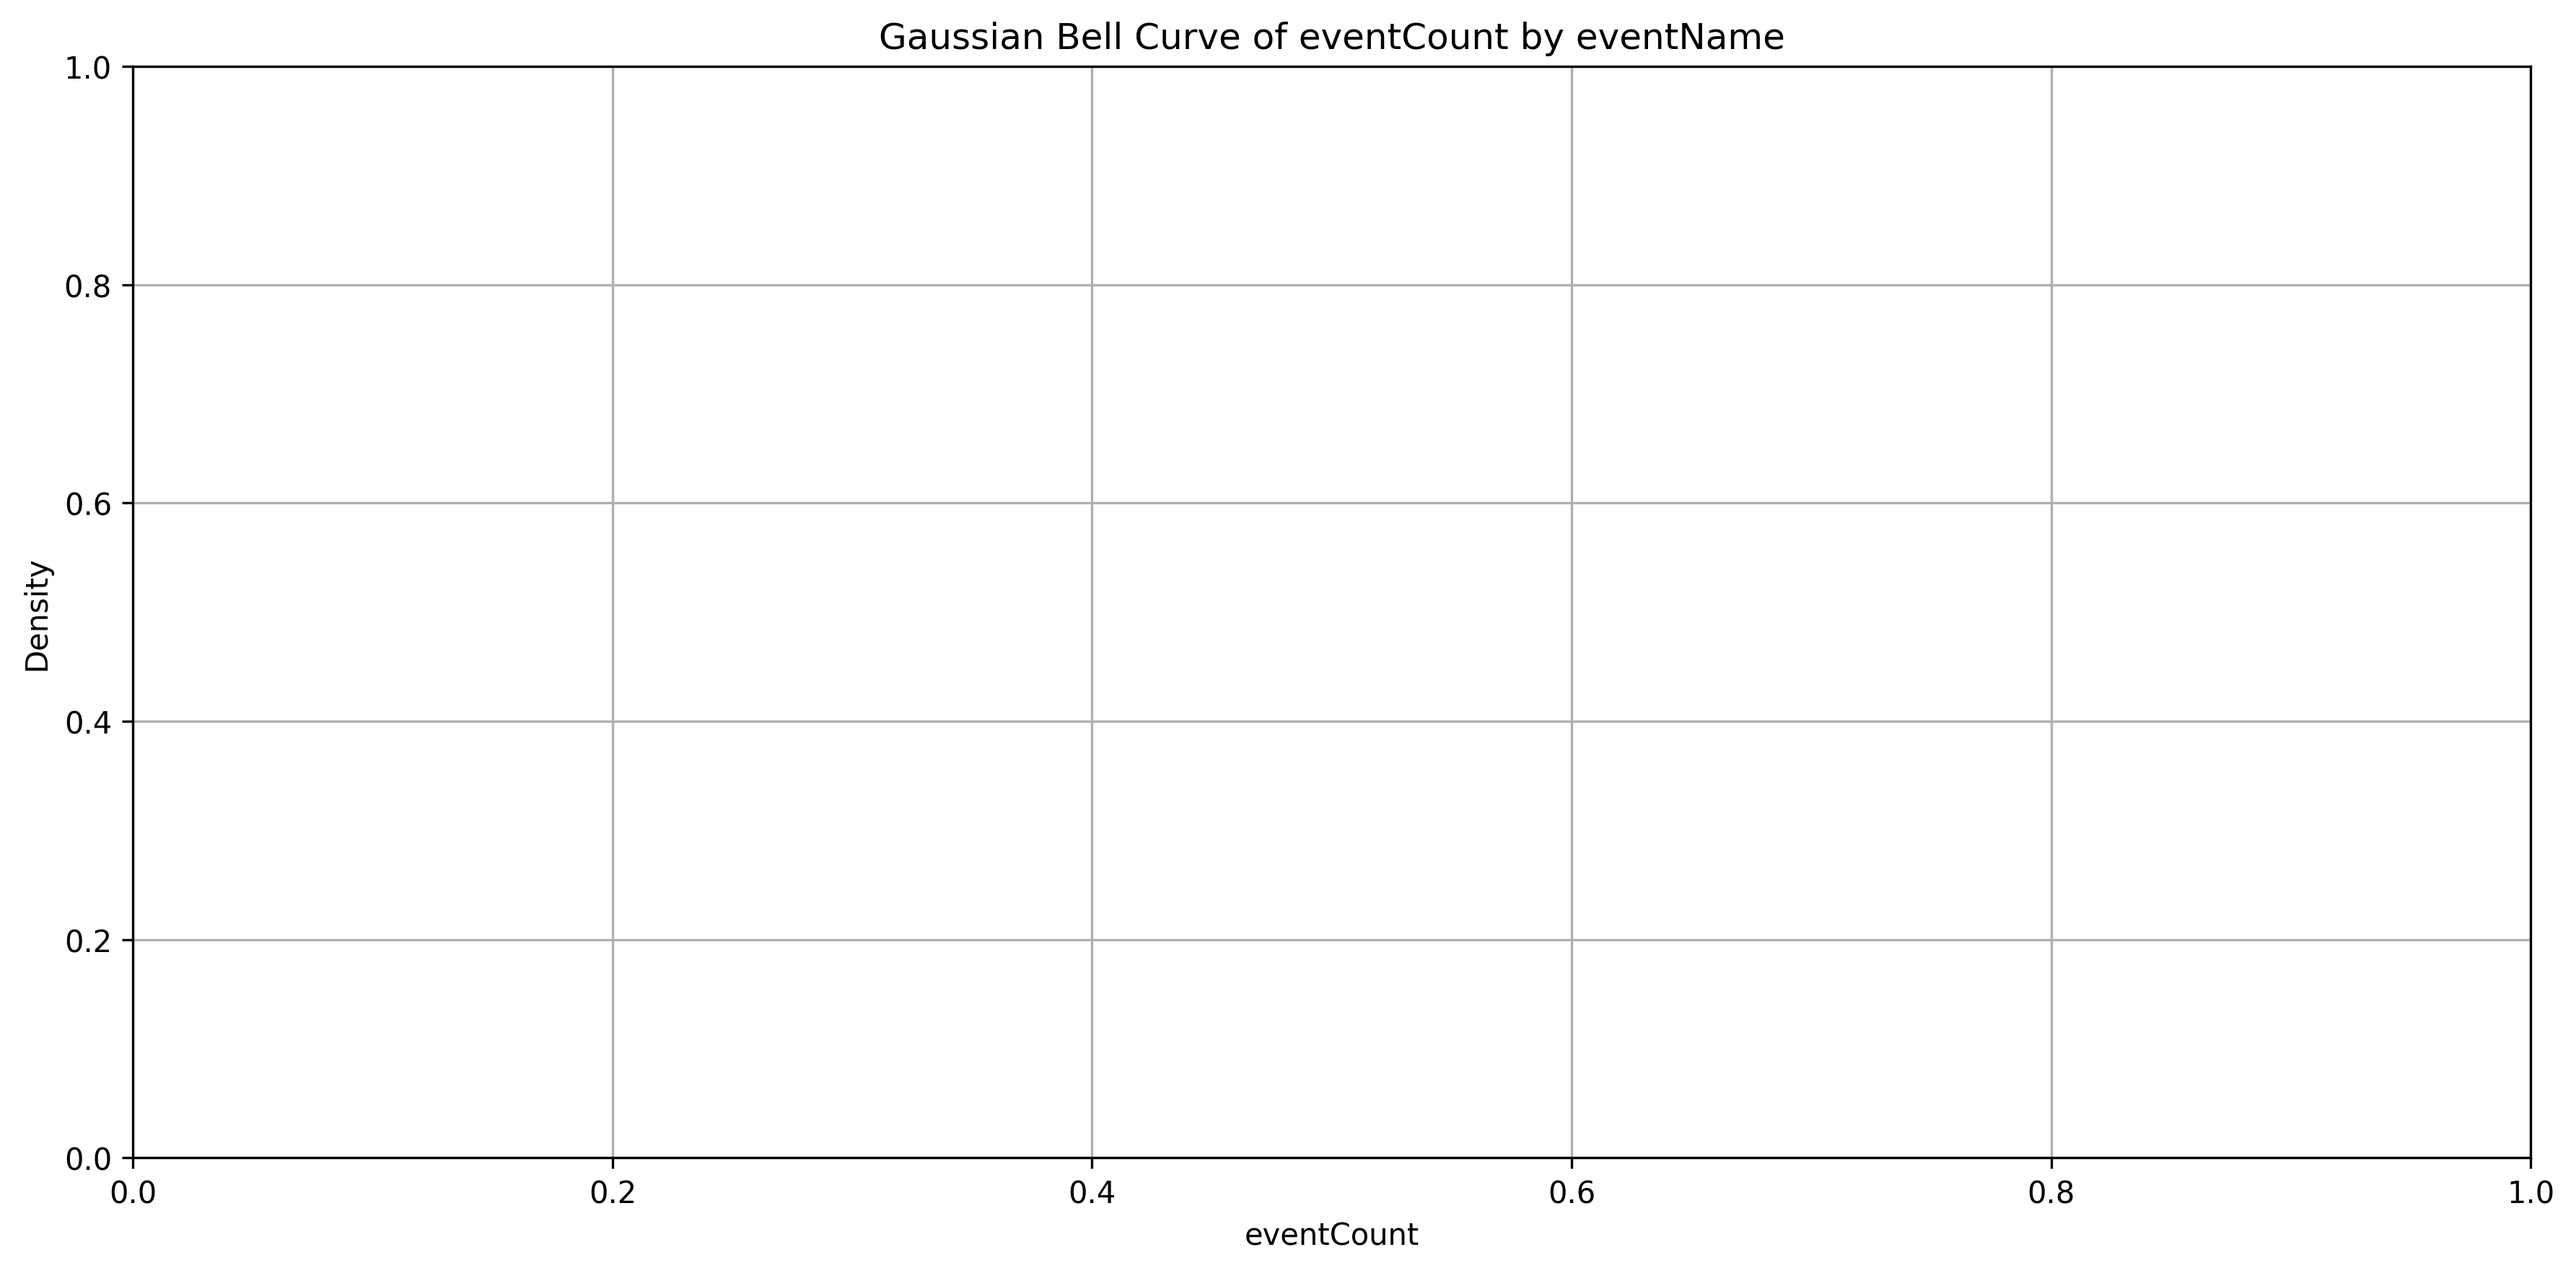
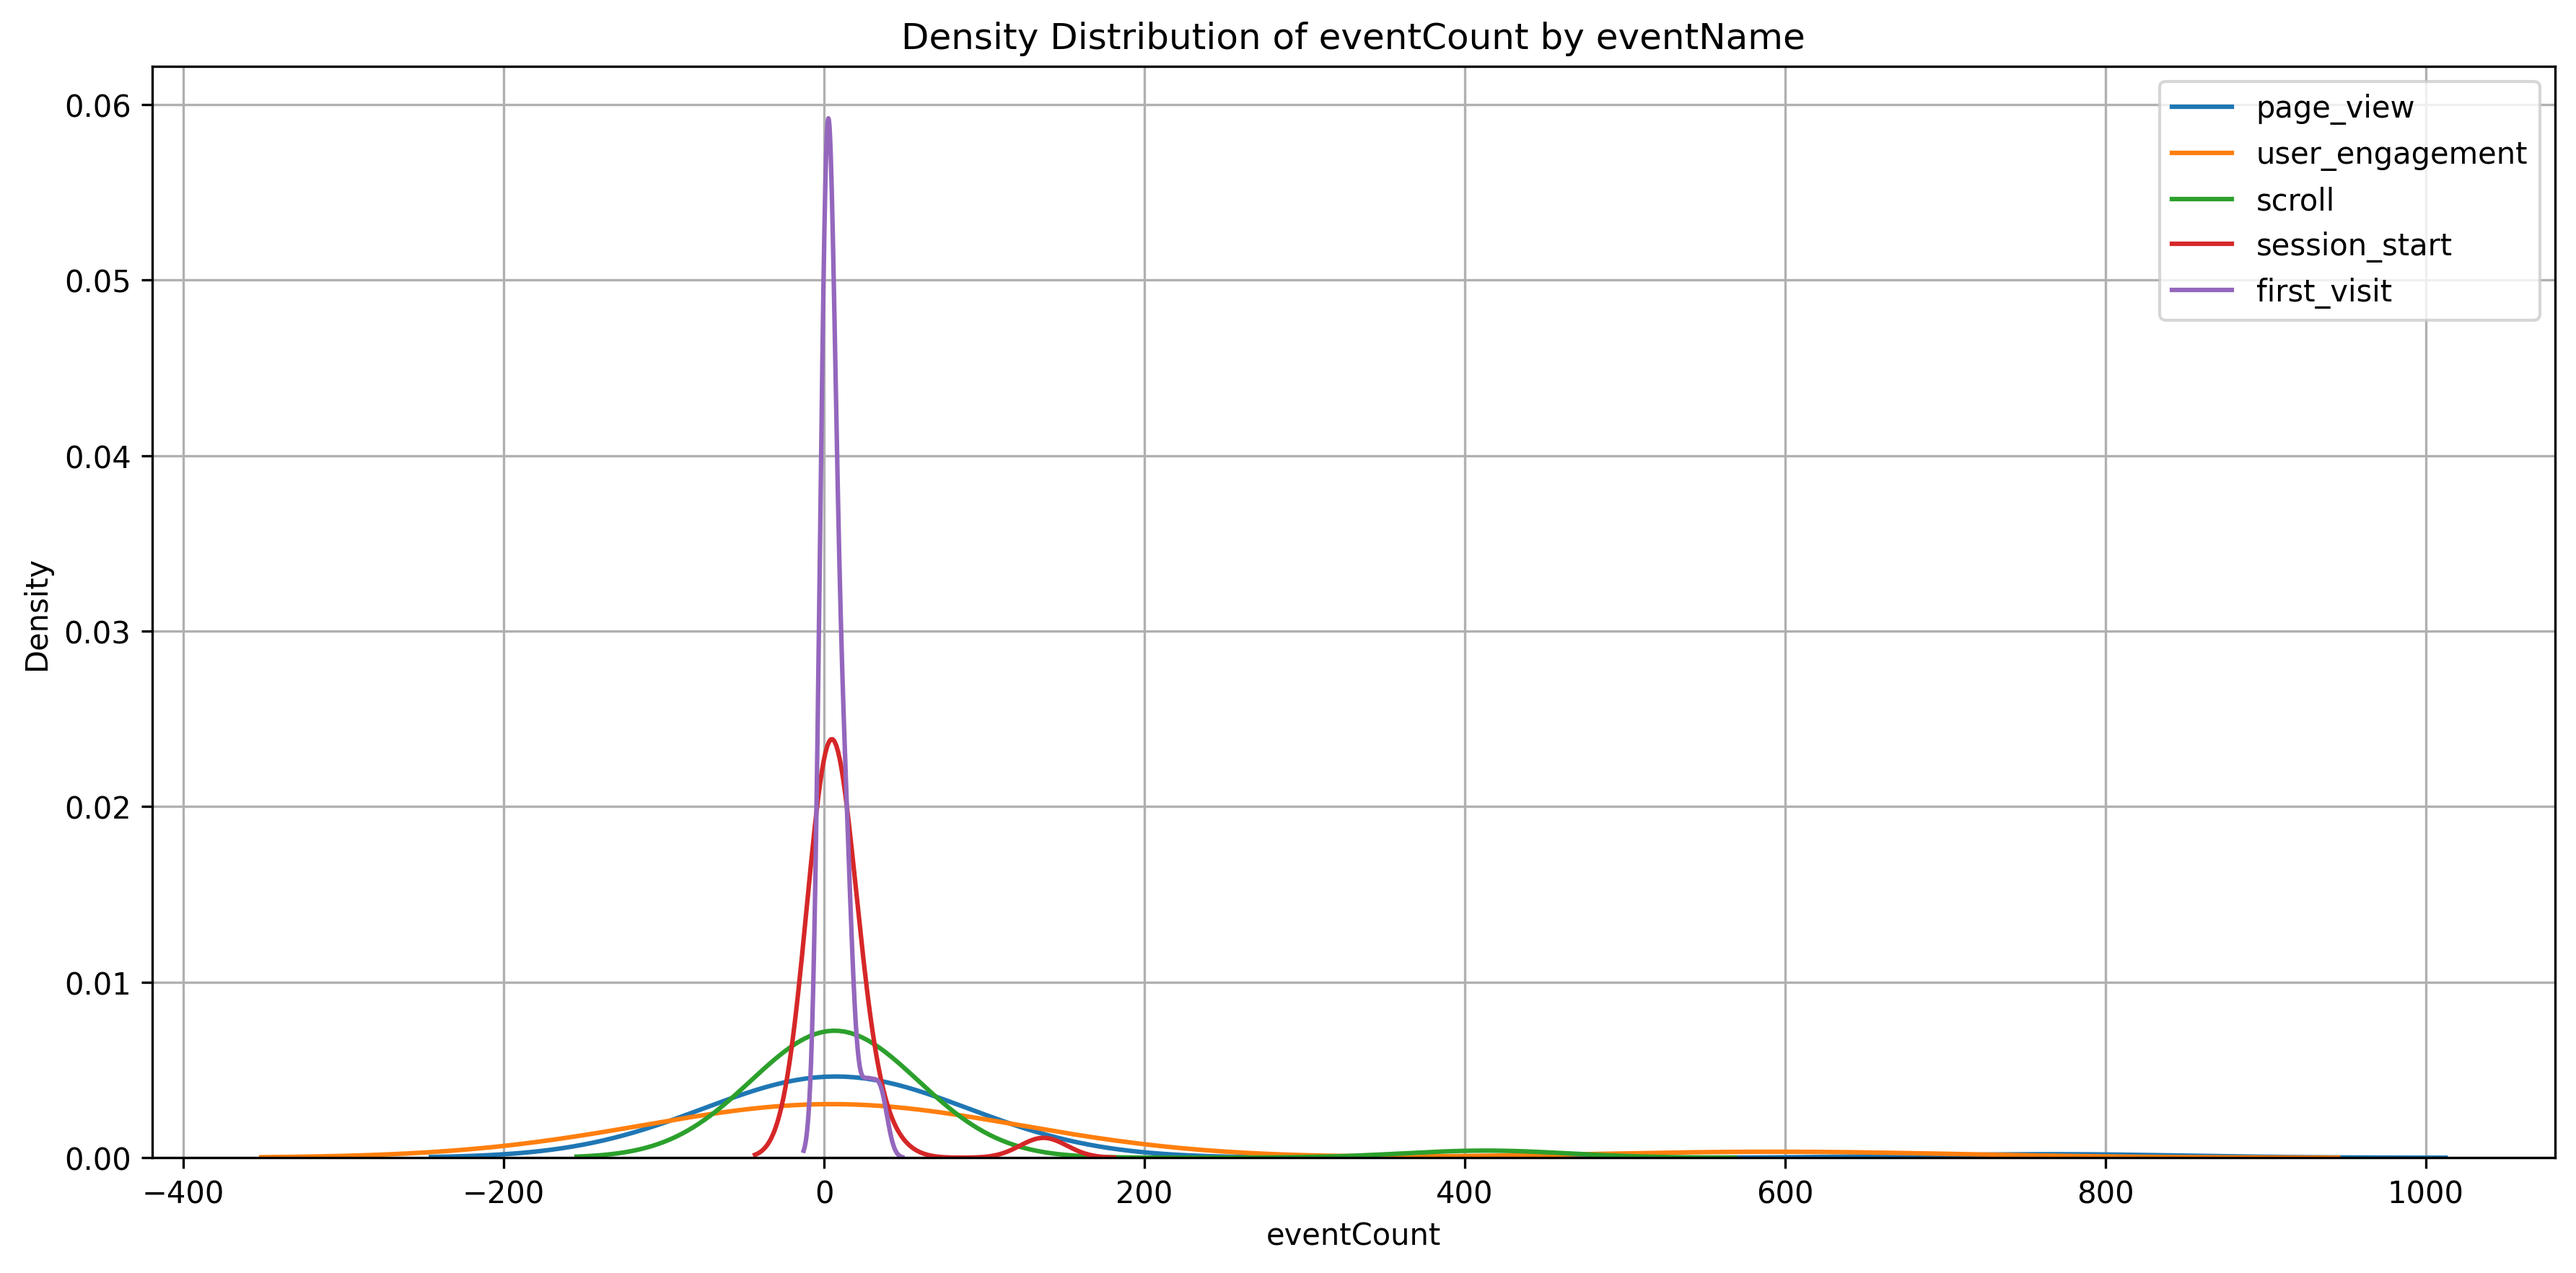
add: include Kruskal test results for eventCount in new CSV files; summarize GA4 response details and statistical metrics

diff --git a/src/hypothesis_testing.py b/src/hypothesis_testing.py
@@ -3,7 +3,7 @@ import os
 import pandas as pd
 import numpy as np
 import matplotlib.pyplot as plt
-from scipy.stats import f_oneway, kruskal, ttest_1samp, ttest_ind, norm
+from scipy.stats import f_oneway, kruskal, ttest_1samp, ttest_ind, norm, shapiro, levene
 from statsmodels.stats.multicomp import pairwise_tukeyhsd
 import seaborn as sns
 from typing import Dict, Any
@@ -73,7 +73,7 @@ def fetch_data_from_google_analytics() -> pd.DataFrame:
     # Prepare request
     request = RunReportRequest(
         property=f"properties/{property_id}",
-        dimensions=[Dimension(name="eventName")],
+        dimensions=[Dimension(name="eventName"), Dimension(name="country")],
         metrics=[
             Metric(name="eventCount"),
             Metric(name="totalUsers"),
@@ -112,6 +112,7 @@ def fetch_data_from_google_analytics() -> pd.DataFrame:
             try:
                 rows.append({
                     "eventName": row.dimension_values[0].value,
+                    "country": row.dimension_values[1].value,
                     "eventCount": int(row.metric_values[0].value),
                     "totalUsers": int(row.metric_values[1].value),
                     "sessions": int(row.metric_values[2].value),
@@ -120,24 +121,32 @@ def fetch_data_from_google_analytics() -> pd.DataFrame:
             except Exception as e:
                 print(f"Error processing row: {str(e)}")
         
-        return pd.DataFrame(rows)
+        return pd.DataFrame(rows), start_date, end_date, property_id, response
     
     except Exception as e:
         print(f"Error fetching data from GA4: {str(e)}")
-        return pd.DataFrame()
+        return pd.DataFrame(), None, None, None, None
 
 def perform_hypothesis_test(data: pd.DataFrame, 
                             metric: str, 
-                            group_col: str = 'eventName', 
-                            alpha: float = 0.05) -> Dict[str, Any]:
+                            group_col: str, 
+                            alpha: float, 
+                            start_date: str, 
+                            end_date: str, 
+                            property_id: str, 
+                            response: Any) -> Dict[str, Any]:
     """
     Perform hypothesis testing for a given metric grouped by a column.
     
     Args:
         data (pd.DataFrame): DataFrame containing the data.
         metric (str): The metric to test (e.g., 'eventCount').
-        group_col (str): The column to group by (default is 'eventName').
-        alpha (float): Significance level (default is 0.05).
+        group_col (str): The column to group by.
+        alpha (float): Significance level.
+        start_date (str): Start date of the data.
+        end_date (str): End date of the data.
+        property_id (str): GA4 property ID.
+        response (Any): GA4 API response object.
     
     Returns:
         Dict[str, Any]: Dictionary containing test results and plots.
@@ -145,8 +154,6 @@ def perform_hypothesis_test(data: pd.DataFrame,
     Raises:
         ValueError: If input data is invalid or missing required columns.
     """
-    results: Dict[str, Any] = {}
-    
     # Input validation
     if data.empty:
         raise ValueError('No data available for analysis')
@@ -162,7 +169,7 @@ def perform_hypothesis_test(data: pd.DataFrame,
     output_dir = 'hypothesis_test_report'
     os.makedirs(output_dir, exist_ok=True)
     
-    # Log data information
+    # Print data summary
     print("\nData Summary:")
     print(f"Total observations: {len(data)}")
     print(f"Groups in {group_col}: {data[group_col].nunique()}")
@@ -172,25 +179,12 @@ def perform_hypothesis_test(data: pd.DataFrame,
     # Group data and check sample sizes
     grouped_data = data.groupby(group_col)[metric].apply(list)
     sample_sizes = grouped_data.apply(len)
-    min_sample_size = 2  # Minimum required sample size for ANOVA
+    min_sample_size = 2
     
-    if any(sample_sizes < min_sample_size):
-        print("\nUsing Kruskal-Wallis test due to small sample sizes")
-        return _perform_kruskal_test(data, grouped_data, metric, group_col, alpha, output_dir)
-    else:
-        print("\nPerforming one-way ANOVA")
-        return _perform_anova_test(data, grouped_data, metric, group_col, alpha, output_dir)
-
-def _perform_kruskal_test(data: pd.DataFrame, 
-                          grouped_data: pd.Series, 
-                          metric: str, 
-                          group_col: str, 
-                          alpha: float,
-                          output_dir: str) -> Dict[str, Any]:
-    """Helper function to perform Kruskal-Wallis test."""
     results = {}
     
     try:
+        # Perform Kruskal-Wallis test (non-parametric)
         h_stat, p_value = kruskal(*grouped_data)
         results['kruskal'] = {
             'h_statistic': h_stat,
@@ -201,76 +195,73 @@ def _perform_kruskal_test(data: pd.DataFrame,
                          f"in {metric} between groups.")
         }
         
-        # Create visualization
-        results['plot'] = _create_visualization(data, metric, group_col, output_dir, test_type='kruskal')
+        # Create visualizations
+        results['visualizations'] = create_visualizations(data, metric, group_col, output_dir)
+        
+        # Save results to CSV
+        results_csv_path = os.path.join(output_dir, f'{metric}_test_results.csv')
+        with open(results_csv_path, 'w') as f:
+            f.write(f"Debug - Start Date: {start_date}\n")
+            f.write(f"Debug - End Date: {end_date}\n\n")
+            f.write("GA4 Response Details:\n")
+            f.write(f"Date Range: {start_date} to {end_date}\n")
+            f.write(f"Property ID: {property_id}\n")
+            f.write(f"Currency Code: {response.metadata.currency_code}\n")
+            f.write(f"Time Zone: {response.metadata.time_zone}\n")
+            f.write(f"Dimensions: {response.dimension_headers}\n")
+            f.write(f"Metrics: {response.metric_headers}\n")
+            f.write(f"Row Count: {len(response.rows) if hasattr(response, 'rows') else 0}\n\n")
+            f.write("Data Summary:\n")
+            f.write(f"Total observations: {len(data)}\n")
+            f.write(f"Groups in {group_col}: {data[group_col].nunique()}\n")
+            f.write(f"Metric statistics for {metric}:\n")
+            f.write(data[metric].describe().to_string())
+            f.write("\n\nTest Results:\n")
+            for key, value in results['kruskal'].items():
+                f.write(f"{key}: {value}\n")
+        
+        # Print test results
+        print("\nTest Results:")
+        print(f"Kruskal-Wallis Results: {results['kruskal']}")
+        print(f"\nVisualizations saved as: {results['visualizations']}")
+        
+        return results
         
     except Exception as e:
-        results['error'] = f"Error in Kruskal-Wallis test: {str(e)}"
-        print(results['error'])
-    
-    return results
+        error_msg = f"Error in hypothesis testing: {str(e)}"
+        print(error_msg)
+        return {'error': error_msg}
 
-def _perform_anova_test(data: pd.DataFrame, 
-                        grouped_data: pd.Series, 
+def create_visualizations(data: pd.DataFrame, 
                         metric: str, 
                         group_col: str, 
-                        alpha: float,
-                        output_dir: str) -> Dict[str, Any]:
-    """Helper function to perform one-way ANOVA test."""
-    results = {}
+                        output_dir: str) -> Dict[str, str]:
+    """
+    Create and save visualizations for hypothesis testing results.
     
-    try:
-        # Perform one-way ANOVA
-        f_stat, p_value = f_oneway(*grouped_data)
-        results['anova'] = {
-            'f_statistic': f_stat,
-            'p_value': p_value,
-            'reject_null': p_value < alpha,
-            'conclusion': (f"{'Reject' if p_value < alpha else 'Fail to reject'} the null hypothesis. "
-                         f"{'There is' if p_value < alpha else 'There is no'} significant difference "
-                         f"in {metric} between groups.")
-        }
+    Args:
+        data (pd.DataFrame): Input data
+        metric (str): Metric being analyzed
+        group_col (str): Grouping column
+        output_dir (str): Directory to save plots
         
-        # Perform post-hoc analysis if ANOVA is significant
-        if p_value < alpha:
-            tukey = pairwise_tukeyhsd(data[metric], data[group_col], alpha=alpha)
-            results['post_hoc'] = {
-                'summary': str(tukey.summary()),
-                'significant_pairs': [
-                    f"{pair[0]} vs {pair[1]}" 
-                    for pair, reject in zip(tukey.groupsunique, tukey.reject) 
-                    if reject
-                ]
-            }
-        
-        # Create visualization
-        results['plot'] = _create_visualization(data, metric, group_col, output_dir, test_type='anova')
-        
-    except Exception as e:
-        results['error'] = f"Error in ANOVA test: {str(e)}"
-        print(results['error'])
-    
-    return results
-
-def _create_visualization(data: pd.DataFrame, 
-                          metric: str, 
-                          group_col: str, 
-                          output_dir: str,
-                          test_type: str) -> Dict[str, str]:
-    """Create and save visualization for hypothesis test results."""
-    plt.figure(figsize=(12, 6))
+    Returns:
+        Dict[str, str]: Dictionary with paths to saved plots
+    """
+    plots = {}
     
     # Create scatter plot
-    sns.scatterplot(x=group_col, y=metric, data=data)
-    plt.title(f'Dispersion of {metric} by {group_col}')
+    plt.figure(figsize=(12, 6))
+    sns.scatterplot(data=data, x=group_col, y=metric)
     plt.xticks(rotation=45, ha='right')
-    plt.grid(True)
+    plt.title(f'Distribution of {metric} by {group_col}')
     plt.tight_layout()
-    scatter_plot_filename = os.path.join(output_dir, f'{metric}_by_{group_col}_scatter.png')
-    plt.savefig(scatter_plot_filename, dpi=300, bbox_inches='tight')
+    scatter_path = os.path.join(output_dir, f'{metric}_by_{group_col}_scatter.png')
+    plt.savefig(scatter_path, dpi=300, bbox_inches='tight')
     plt.close()
+    plots['scatter_plot'] = scatter_path
     
-    # Create Gaussian bell curve plot
+    # Create bell curve (density plot)
     plt.figure(figsize=(12, 6))
     valid_labels = []
     for group in data[group_col].unique():
@@ -280,23 +271,63 @@ def _create_visualization(data: pd.DataFrame,
             valid_labels.append(group)
         else:
             print(f"Skipping group '{group}' due to zero variance.")
-    plt.title(f'Gaussian Bell Curve of {metric} by {group_col}')
-    plt.xlabel(metric)
-    plt.ylabel('Density')
-    plt.grid(True)
     if valid_labels:
+        plt.title(f'Density Distribution of {metric} by {group_col}')
+        plt.xlabel(metric)
+        plt.ylabel('Density')
+        plt.grid(True)
         plt.legend()
-    plt.tight_layout()
-    bell_curve_filename = os.path.join(output_dir, f'{metric}_by_{group_col}_bell_curve.png')
-    plt.savefig(bell_curve_filename, dpi=300, bbox_inches='tight')
-    plt.close()
+        plt.tight_layout()
+        bell_curve_path = os.path.join(output_dir, f'{metric}_by_{group_col}_bell_curve.png')
+        plt.savefig(bell_curve_path, dpi=300, bbox_inches='tight')
+        plt.close()
+        plots['bell_curve'] = bell_curve_path
+    else:
+        print("No valid groups with non-zero variance for Gaussian bell curve plot.")
+        plots['bell_curve'] = "No valid groups with non-zero variance for Gaussian bell curve plot."
     
-    return {'scatter_plot': scatter_plot_filename, 'bell_curve': bell_curve_filename}
+    return plots
+
+def validate_assumptions(data: pd.DataFrame, 
+                        metric: str, 
+                        group_col: str) -> Dict[str, Any]:
+    """
+    Validate statistical assumptions for hypothesis testing.
+    
+    Args:
+        data (pd.DataFrame): Input data
+        metric (str): Metric being analyzed
+        group_col (str): Grouping column
+        
+    Returns:
+        Dict[str, Any]: Dictionary containing validation results
+    """
+    results = {}
+    
+    # Test for normality (Shapiro-Wilk test)
+    _, p_value = shapiro(data[metric])
+    results['normality'] = {
+        'test': 'Shapiro-Wilk',
+        'p_value': p_value,
+        'is_normal': p_value > 0.05
+    }
+    
+    # Test for equal variances (Levene's test)
+    groups = [group for _, group in data.groupby(group_col)[metric]]
+    if len(groups) > 1:
+        _, p_value = levene(*groups)
+        results['equal_variance'] = {
+            'test': 'Levene',
+            'p_value': p_value,
+            'has_equal_variance': p_value > 0.05
+        }
+    
+    return results
 
 # Example usage
 if __name__ == "__main__":
     # Fetch data from Google Analytics
-    data = fetch_data_from_google_analytics()
+    data, start_date, end_date, property_id, response = fetch_data_from_google_analytics()
     
     # Debugging: Print the first few rows of the data and the column names
     print("Data columns:", data.columns)
@@ -307,23 +338,19 @@ if __name__ == "__main__":
             data=data,
             metric='eventCount',
             group_col='eventName',
-            alpha=0.05
+            alpha=0.05,
+            start_date=start_date,
+            end_date=end_date,
+            property_id=property_id,
+            response=response
         )
         
         if 'error' not in results:
-            print("\nTest Results:")
-            if 'anova' in results:
-                print("ANOVA Results:", results['anova'])
-            if 'kruskal' in results:
-                print("Kruskal-Wallis Results:", results['kruskal'])
-            if 'post_hoc' in results:
-                print("\nPost-hoc Analysis:")
-                print(results['post_hoc']['summary'])
-            print(f"\nVisualizations saved as: {results['plot']}")
+            print("\nDetailed Results:")
+            print(f"Statistical Test: {results['kruskal']}")
+            print(f"Visualizations: {results['visualizations']}")
         else:
-            print(f"Error: {results['error']}")
+            print(f"Error occurred: {results['error']}")
             
-    except ValueError as e:
-        print(f"Input error: {str(e)}")
     except Exception as e:
         print(f"Unexpected error: {str(e)}")
